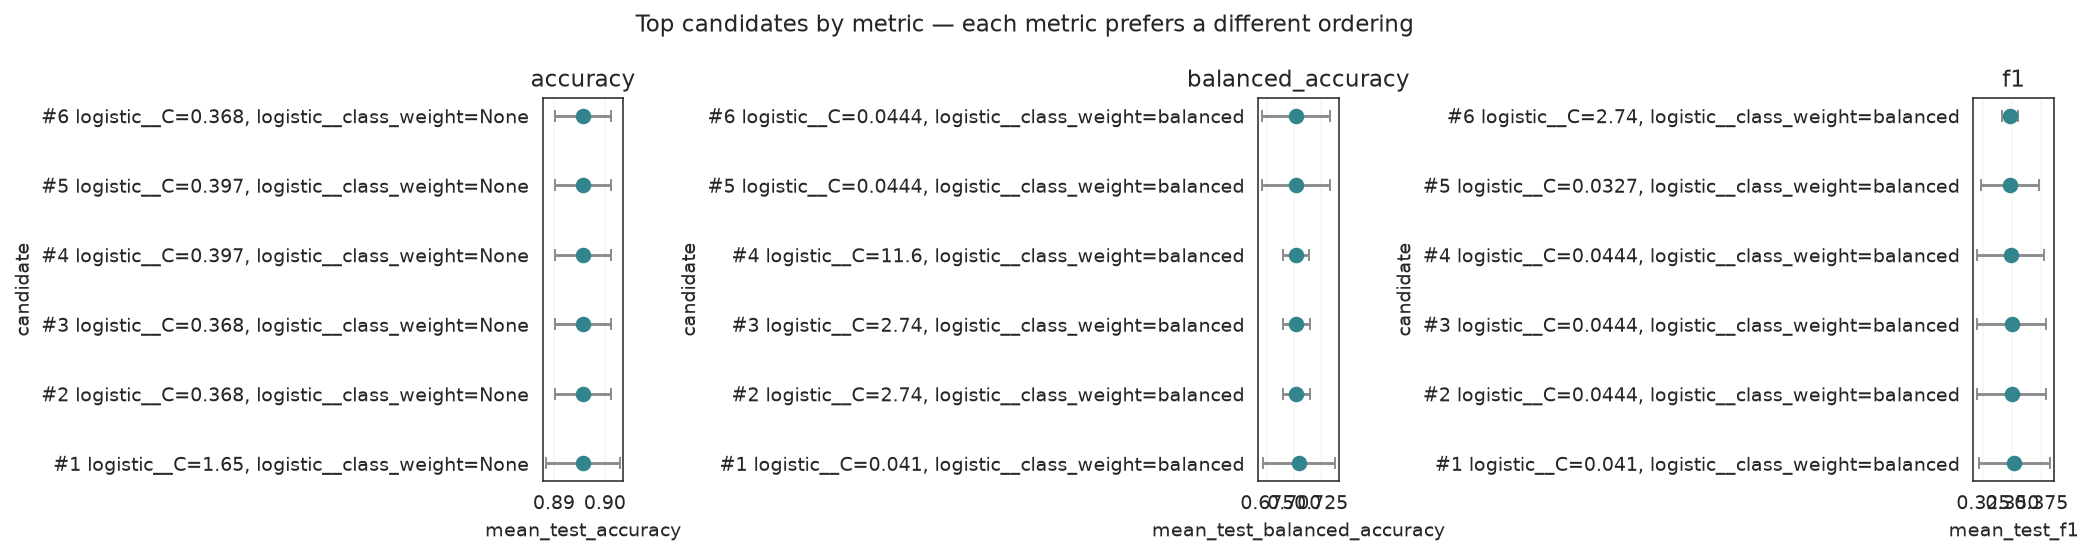
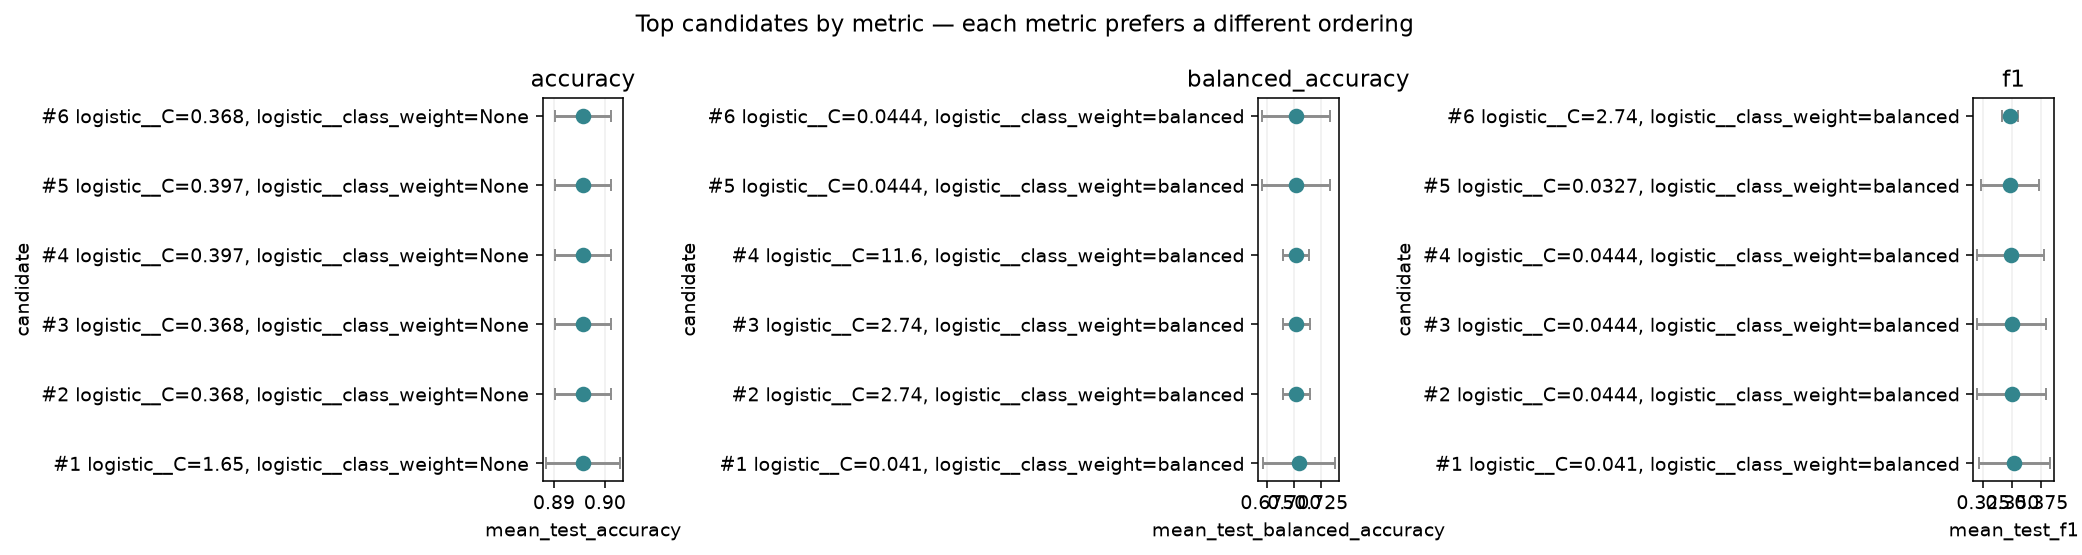
docs: place random_state after estimator in all search constructors
The earlier change inserted random_state as the first constructor argument, which
read awkwardly (random_state before estimator) and was fragile — it broke the one
constructor that passed its estimator positionally ("positional argument follows
keyword argument"). Move random_state to immediately after the estimator
argument in every GASearchCV/GAFeatureSelectionCV call across the generators,
rendered example/tutorial pages, and the guides. The reordering is behaviour-
neutral (keyword arguments); re-running a generator reproduces its page
byte-for-byte, and all 37 rendered GA code blocks compile cleanly.

Claude-Session: https://claude.ai/code/session_01BGiSx1SjjUxn9WLwJ8AcjA

diff --git a/docs-vitepress/examples-src/page_advanced_rf.py b/docs-vitepress/examples-src/page_advanced_rf.py
@@ -199,8 +199,8 @@ nb.md(
 nb.code(
     """
     ga_search = GASearchCV(
-        random_state=RANDOM_STATE,
         estimator=RandomForestClassifier(random_state=RANDOM_STATE, n_jobs=1),
+        random_state=RANDOM_STATE,
         param_grid=param_grid,
         scoring="balanced_accuracy",
         cv=cv,
@@ -416,10 +416,10 @@ nb.md(
 nb.code(
     """
     feature_selector = GAFeatureSelectionCV(
-        random_state=RANDOM_STATE,
         estimator=RandomForestClassifier(
             random_state=RANDOM_STATE, n_jobs=1, **ga_search.best_params_
         ),
+        random_state=RANDOM_STATE,
         scoring="balanced_accuracy",
         cv=cv,
         max_features=14,

diff --git a/docs-vitepress/examples-src/page_basic_usage.py b/docs-vitepress/examples-src/page_basic_usage.py
@@ -106,8 +106,8 @@ nb.code(
     clf = MLPClassifier(max_iter=150, early_stopping=True, random_state=RANDOM_STATE)
 
     search = GASearchCV(
-        random_state=RANDOM_STATE,
         estimator=clf,
+        random_state=RANDOM_STATE,
         cv=cv,
         scoring="accuracy",
         param_grid=param_grid,
@@ -246,8 +246,8 @@ nb.code(
     )
 
     selector = GAFeatureSelectionCV(
-        random_state=RANDOM_STATE,
         estimator=SVC(gamma="auto"),
+        random_state=RANDOM_STATE,
         cv=3,
         scoring="accuracy",
         evolution_config=EvolutionConfig(population_size=10, generations=8,

diff --git a/docs-vitepress/examples-src/page_checkpointing.py b/docs-vitepress/examples-src/page_checkpointing.py
@@ -120,8 +120,8 @@ nb.code(
     ]
 
     search = GASearchCV(
-        random_state=42,
         estimator=RandomForestClassifier(random_state=42, n_jobs=1),
+        random_state=42,
         cv=cv,
         scoring="roc_auc",
         param_grid=param_grid,
@@ -235,8 +235,8 @@ nb.code(
     search.save(saved_search_path)
 
     restored_search = GASearchCV(
-        random_state=42,
         estimator=RandomForestClassifier(random_state=42, n_jobs=1),
+        random_state=42,
         cv=cv,
         scoring="roc_auc",
         param_grid=param_grid,

diff --git a/docs-vitepress/examples-src/page_feature_selection.py b/docs-vitepress/examples-src/page_feature_selection.py
@@ -160,8 +160,8 @@ nb.md(
 nb.code(
     """
     selector = GAFeatureSelectionCV(
-        random_state=RANDOM_STATE,
         estimator=make_model(),
+        random_state=RANDOM_STATE,
         cv=cv,
         scoring="balanced_accuracy",
         evolution_config=EvolutionConfig(

diff --git a/docs-vitepress/examples-src/page_imbalanced_classification.py b/docs-vitepress/examples-src/page_imbalanced_classification.py
@@ -300,8 +300,8 @@ nb.code(
     ]
 
     ga_search = GASearchCV(
-        random_state=RANDOM_STATE,
         estimator=LabeledRF(random_state=RANDOM_STATE, n_jobs=1),
+        random_state=RANDOM_STATE,
         param_grid=param_grid,
         scoring=scoring,
         refit="balanced_accuracy",   # decides best_params_ and best_score_

diff --git a/docs-vitepress/examples-src/page_isolation_forest.py b/docs-vitepress/examples-src/page_isolation_forest.py
@@ -307,8 +307,8 @@ nb.code(
     ]
 
     ga_search = GASearchCV(
-        random_state=RANDOM_STATE,
         estimator=IsolationForest(random_state=RANDOM_STATE),
+        random_state=RANDOM_STATE,
         param_grid=param_grid,
         scoring=scorer,
         cv=cv,

diff --git a/docs-vitepress/examples-src/page_multi_metric.py b/docs-vitepress/examples-src/page_multi_metric.py
@@ -150,8 +150,8 @@ nb.code(
     }
 
     search = GASearchCV(
-        random_state=RANDOM_STATE,
         estimator=model,
+        random_state=RANDOM_STATE,
         param_grid=param_grid,
         scoring=scoring,
         refit="balanced_accuracy",   # drives best_params_ and best_estimator_

diff --git a/docs-vitepress/examples-src/page_pipeline_regression.py b/docs-vitepress/examples-src/page_pipeline_regression.py
@@ -160,8 +160,8 @@ nb.md(
 nb.code(
     """
     search = GASearchCV(
-        random_state=RANDOM_STATE,
         estimator=make_pipeline(),
+        random_state=RANDOM_STATE,
         param_grid=param_grid,
         scoring="neg_root_mean_squared_error",
         criteria="max",

diff --git a/docs-vitepress/examples-src/page_plotting_gallery.py b/docs-vitepress/examples-src/page_plotting_gallery.py
@@ -95,8 +95,8 @@ nb.code(
     cv = StratifiedKFold(n_splits=3, shuffle=True, random_state=42)
 
     search = GASearchCV(
-        random_state=RANDOM_STATE,
         estimator=RandomForestClassifier(random_state=42, n_jobs=1),
+        random_state=RANDOM_STATE,
         cv=cv,
         scoring="roc_auc",
         param_grid={

diff --git a/docs-vitepress/examples-src/page_sklearn_comparison.py b/docs-vitepress/examples-src/page_sklearn_comparison.py
@@ -230,8 +230,8 @@ nb.md(
 nb.code(
     """
     ga_search = GASearchCV(
-        random_state=RANDOM_STATE,
         estimator=make_model(),
+        random_state=RANDOM_STATE,
         scoring="roc_auc",
         cv=cv,
         param_grid={

diff --git a/docs-vitepress/examples-src/page_tune_catboost.py b/docs-vitepress/examples-src/page_tune_catboost.py
@@ -143,8 +143,8 @@ nb.md("## Configure and Run")
 nb.code(
     """
     ga_search = GASearchCV(
-        random_state=RANDOM_STATE,
         estimator=make_catboost(),
+        random_state=RANDOM_STATE,
         param_grid=param_grid,
         scoring="roc_auc",
         cv=cv,

diff --git a/docs-vitepress/examples-src/page_tune_lightgbm.py b/docs-vitepress/examples-src/page_tune_lightgbm.py
@@ -152,8 +152,8 @@ nb.md(
 nb.code(
     """
     ga_search = GASearchCV(
-        random_state=RANDOM_STATE,
         estimator=LGBMClassifier(random_state=RANDOM_STATE, n_jobs=1, verbose=-1),
+        random_state=RANDOM_STATE,
         param_grid=param_grid,
         scoring="roc_auc",
         cv=cv,